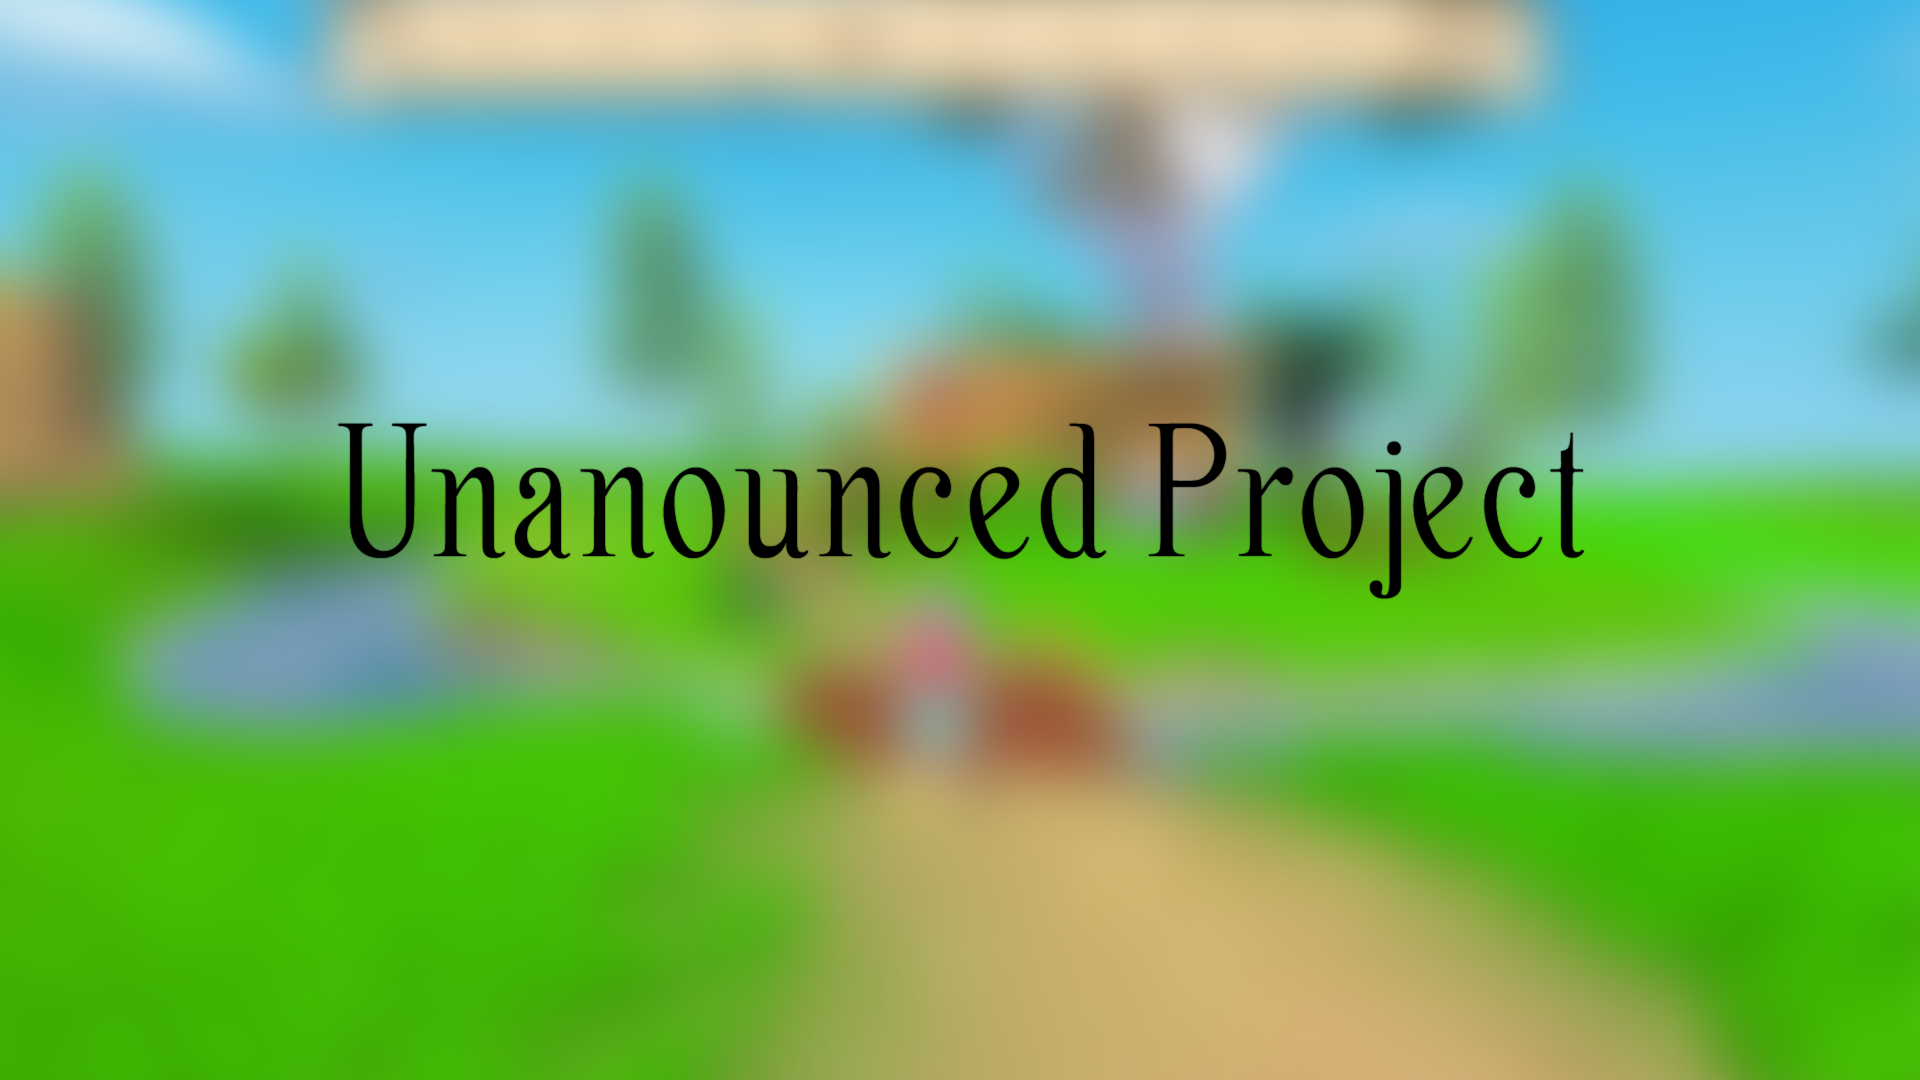
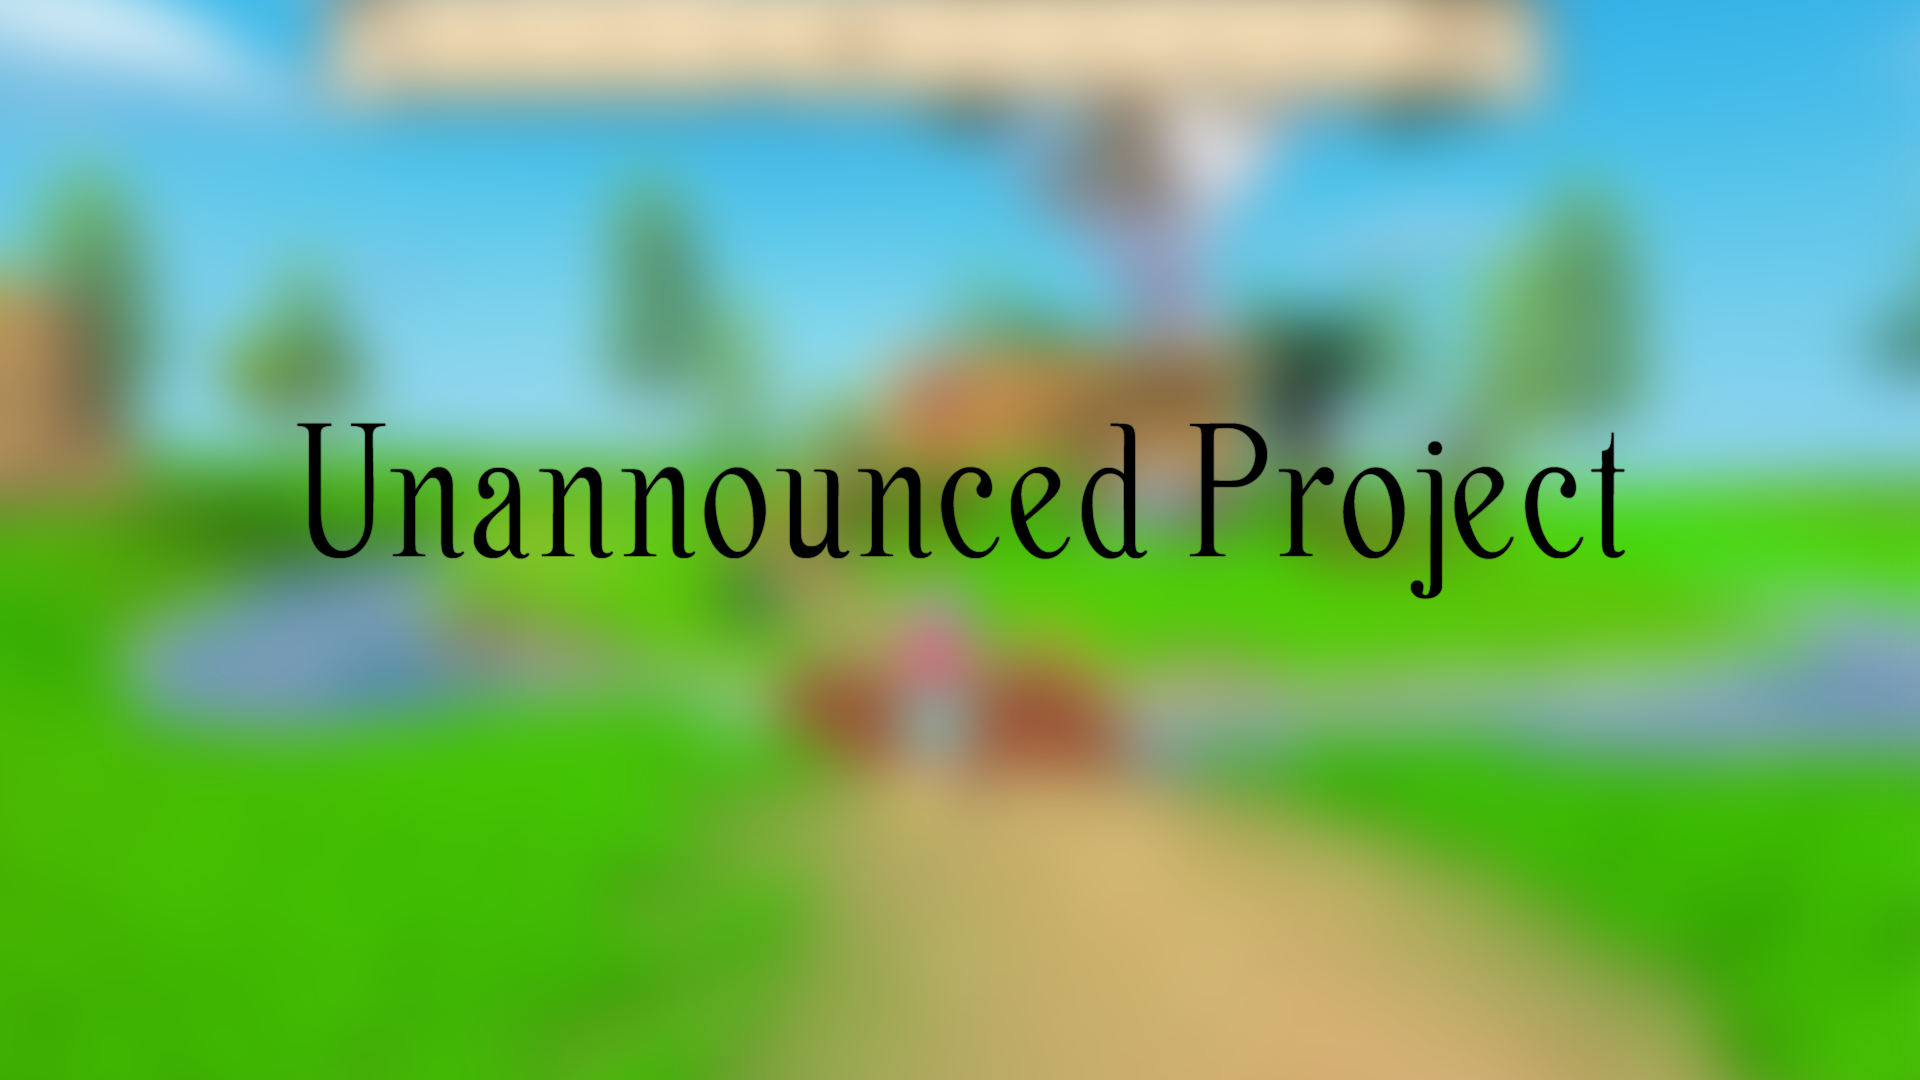
Update the Picture with the "Unannounced Project", as well as some of the text that the spelling mistake

Changed region(s): [[0.1562, 0.3667, 0.8438, 0.55]]

diff --git a/unanouncedrpg.html b/unanouncedrpg.html
@@ -25,7 +25,7 @@
                 <li><a href="#">Games</a>
                     <ul>
                         <li><a href="requiem.html">Requiem</a></li>
-                        <li><a href="unanouncedrpg.html">Unanounced RPG</a></li>
+                        <li><a href="unanouncedrpg.html">Unannounced RPG</a></li>
                         <li><a href="windfall.html">Windfall</a></li>
                     </ul>
                 </li>
@@ -45,11 +45,11 @@
         <section id="games" style="margin-top: 150px;">
             <div class="container">
                 <hr>
-                <h3>Unanounced Project</h3>
+                <h3>Unannounced Project</h3>
                 <div class="row">
                     <div class="games-col">
                         <div class="games-text">
-                            <p> For this unanounced project I have been working both as the lead environmental artist, in addition to my primary specialization of Game Designer. My tasks have included:<br></p>
+                            <p> For this unannounced project I have been working both as the lead environmental artist, in addition to my primary specialization of Game Designer. My tasks have included:<br></p>
                             <ul>
                                 <li>Terrain sculpting of the game demo.</li>
                                 <li>Terrain texturing of the game demo.</li>
@@ -66,7 +66,7 @@
                                 <li>Document and outline advantage and disadvantages of different world styles for the team, along with possible solutions.</li>
                             </ul>
                             <p>
-                                Unfortunately I am unable to explain in detail the various elements that I touched on this unanounced project, but my multidisciplinary background has allowed me to take on a variety of different tasks.
+                                Unfortunately I am unable to explain in detail the various elements that I touched on this unannounced project, but my multidisciplinary background has allowed me to take on a variety of different tasks.
 
                             </p>
                         </div>
